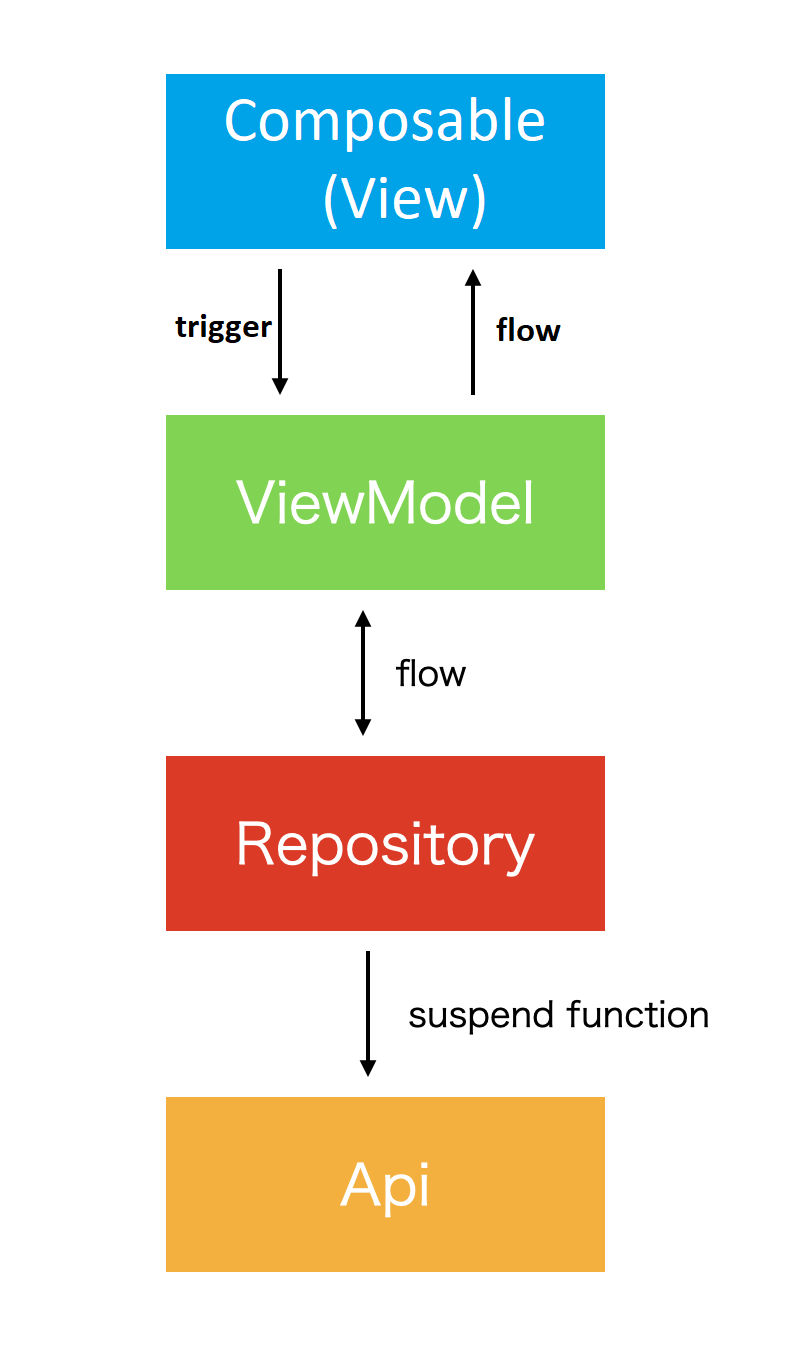
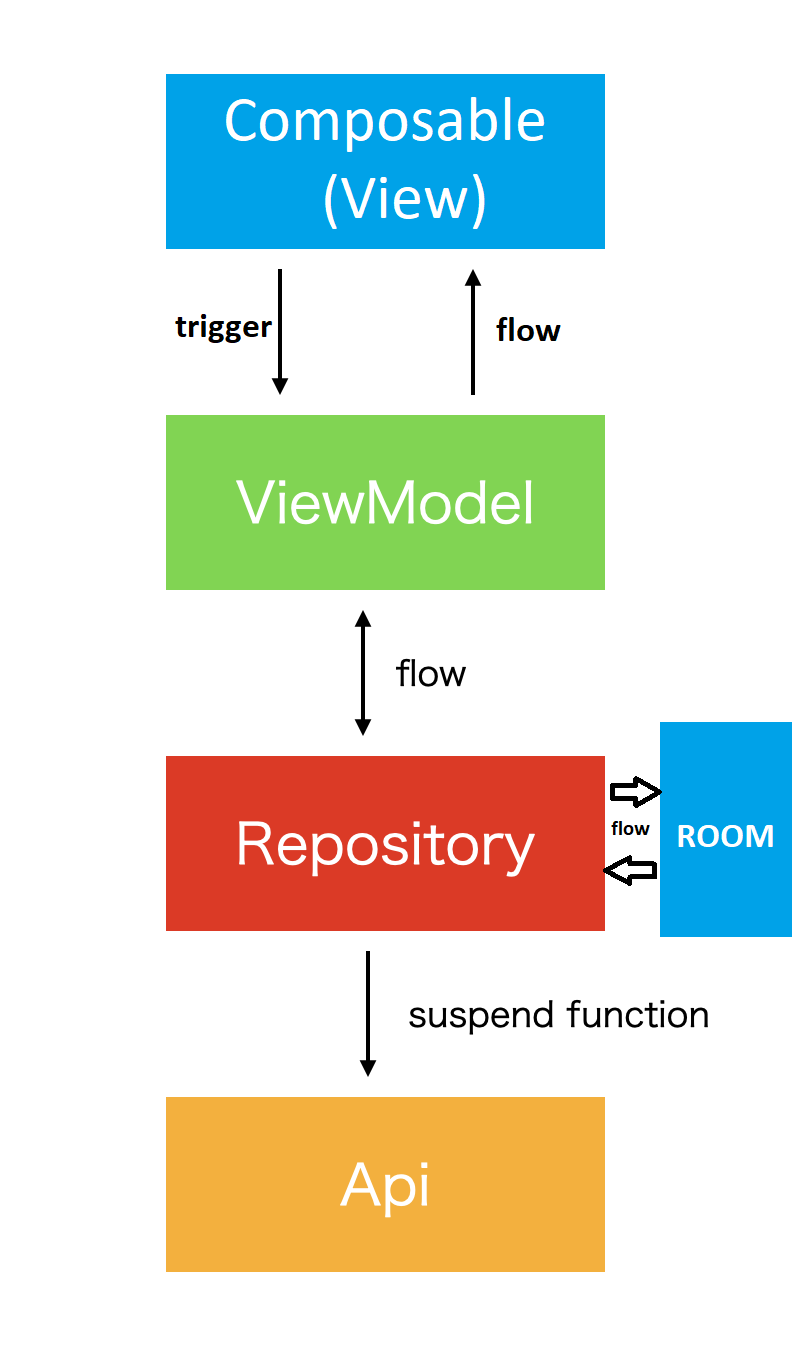
Add offline cache with Room and Network Bound Resource

Changed region(s): [[0.7481, 0.5227, 0.9975, 0.7072]]

diff --git a/README.md b/README.md
@@ -161,10 +161,8 @@ fun KeywordSearchPage(navHostController: NavHostController, keywordSearchPageVie
 
 ```
 ### Using Room and Network Bound Resource for offline cache 
-Use kotlin coroutines flow with [StateFlow](https://kotlin.github.io/kotlinx.coroutines/kotlinx-coroutines-core/kotlinx.coroutines.flow/-state-flow/).
-
-After transformed to hot stream with [ViewModelScope](https://developer.android.com/topic/libraries/architecture/coroutines#viewmodelscope),
-collect it using normal collectAsState in Composable.
+Use Room database for offline storage and cache [Room](https://developer.android.com/training/data-storage/room/accessing-data) together with the help of 
+Network Bound Resource  [Network Bound Resource](https://developer.android.com/topic/libraries/architecture/coroutines#viewmodelscope).
 
 
 ```kotlin
@@ -258,4 +256,6 @@ class RepoSearchAppRepository @Inject constructor(
   * [stateflow-transformations](https://proandroiddev.com/clean-stateflow-transformations-in-kotlin-608f4c7de5ab)
   * [stateflow-vs-sharedflow](https://www.valueof.io/blog/stateflow-vs-sharedflow-jetpack-compose)
 
-    
+
+#### Serve me a coffee and my ethereum wallet is
+  * 0x1e68b09f0A3158a73041a871FeC5037586128873
